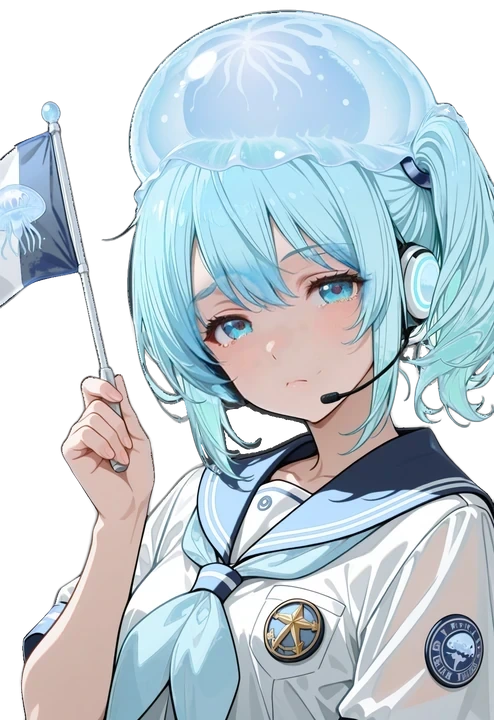
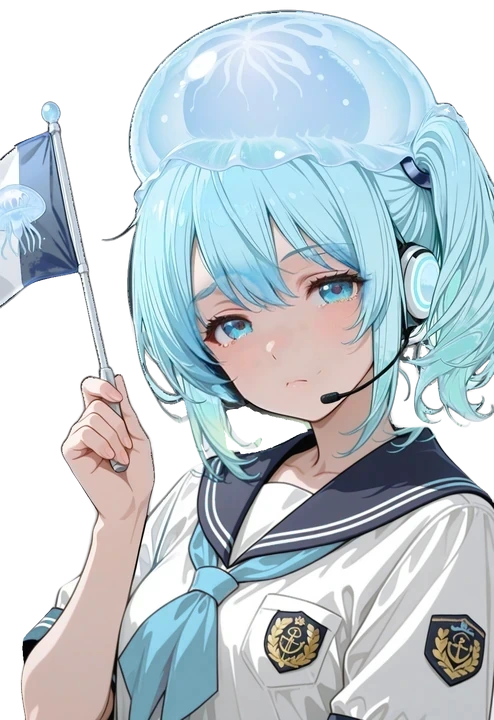
feat: 茜と瑠璃の立ち絵6表情の服を設定画にそろえた
茜は胸元を首輪と鎖・交差した赤い紐に、瑠璃は紺の襟と透けないブラウスに直した (happy・fired は前から設定画どおり)。ART_VER を 7 に上げた。

Claude-Session: https://claude.ai/code/session_01NHRfgjidDocNqbrRDwuHGU

diff --git a/js3d/avatar.js b/js3d/avatar.js
@@ -105,7 +105,7 @@ const pick = (list) => list[Math.floor(Math.random() * list.length)];
 export const avatarIds = () => Object.keys(AVATARS).filter(id => !AVATARS[id].boss);
 /* 立ち絵の版。画像には版の印が付かないので、同じ名前で差し替えたらここを上げる (古い絵がしばらく出るのを防ぐ)。3 = 2026-10-01 頭の先まで入る枠で切り直し (E:SDSwarmUIOutputvatar_v2export_v4headroom.py) */
 /* 4 = 2026-10-05 4人の服と髪飾りを新デザインに寄せた (顔は前のまま。E:/SD/SwarmUI/Output/avatar_v2/export_v4/design_restyle.py) */
-export const ART_VER = 6;
+export const ART_VER = 7;
 /* 声の版。同じ名前で声を作り直したらここを上げる (古い声がしばらく鳴るのを防ぐ)。5 = 2026-10-02 読みの直し (止められ・上回・開いた・命) とセリフの差し替え */
 export const VOICE_VER = 9;
 /* 声の大きさをキャラどうしでそろえる。測った大きさ (ラウドネス、LUFS。ffmpeg の ebur128 の中央値) から、VOICE_TARGET へ合わせる倍率を出す。

diff --git a/three-play.html b/three-play.html
@@ -4826,7 +4826,7 @@
       "./js3d/audio.js": "./js3d/audio.js?v=883c9531ac",
       "./js3d/avatar-boss-lines.js": "./js3d/avatar-boss-lines.js?v=507ebedfac",
       "./js3d/avatar-lines.js": "./js3d/avatar-lines.js?v=1a9e812365",
-      "./js3d/avatar.js": "./js3d/avatar.js?v=65c7f1e091",
+      "./js3d/avatar.js": "./js3d/avatar.js?v=0959f52741",
       "./js3d/backdrops.js": "./js3d/backdrops.js?v=90faf9612d",
       "./js3d/bgm-shop.js": "./js3d/bgm-shop.js?v=da2eff66b8",
       "./js3d/bgm.js": "./js3d/bgm.js?v=141d43939f",
@@ -4954,7 +4954,7 @@
   <link rel="modulepreload" href="js3d/spectate.js?v=ed159bd7b8">
   <link rel="modulepreload" href="js3d/watchtools.js?v=ad10da8d17">
   <link rel="modulepreload" href="js3d/replays-ui.js?v=c76f859c99">
-  <link rel="modulepreload" href="js3d/avatar.js?v=65c7f1e091">
+  <link rel="modulepreload" href="js3d/avatar.js?v=0959f52741">
   <link rel="modulepreload" href="js3d/avatar-lines.js?v=1a9e812365">
   <link rel="modulepreload" href="js3d/motion.js?v=71cd68f8ff">
   <link rel="modulepreload" href="js3d/gacha.js?v=ecda5be85c">
